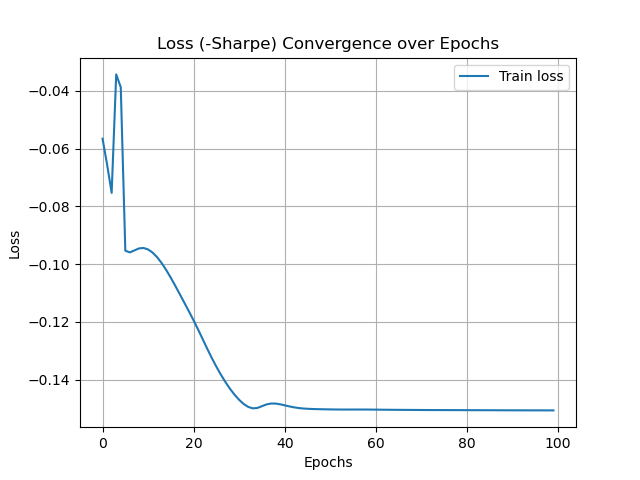
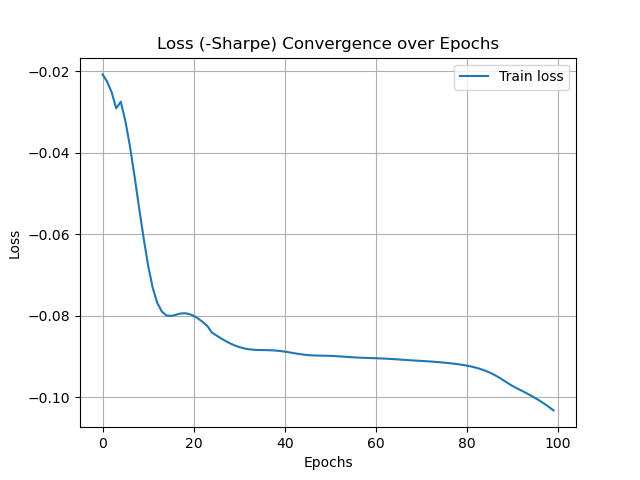
retraining scheme is working

diff --git a/NeurelNetwork_w_mvo.py b/NeurelNetwork_w_mvo.py
@@ -165,7 +165,12 @@ def backtest(tickers, startDate, epochs, window=365, retrain_every=0):
 
     model = Model()
     window = data.shape[0] - 1  # TRUE WINDOW AFTER GETTING JUST TRADING DAYS
-    weights = model.get_allocations(data.iloc[:-1], epochs=epochs)
+    go = True
+    while go:
+        model = Model()
+        weights = model.get_allocations(data.iloc[:-1], epochs=epochs)
+        if model.losses[-1] < -.07:
+            go = False
     history = model.losses
     # how long we backtest for
     full_data = get_data(startDate, datetime.datetime(2021, 1, 1), tickers)
@@ -176,10 +181,14 @@ def backtest(tickers, startDate, epochs, window=365, retrain_every=0):
         sub_data = full_data.iloc[i:i+window - 1]
         weights = None
         if retrain_every > 0 and (i + 1) % retrain_every == 0:
-            print('retrain')
-            model = Model()
-            weights = model.get_allocations(sub_data, epochs=epochs)
-            sub_data = prep_data_for_pred(sub_data)
+            go = True
+            while go:
+                print('retrain')
+                model = Model()
+                weights = model.get_allocations(sub_data, epochs=epochs)
+                if model.losses[-1] < -.07:
+                    go = False
+                    sub_data = prep_data_for_pred(sub_data)
 
         else:
             sub_data = prep_data_for_pred(sub_data)
@@ -345,10 +354,10 @@ def backtest(tickers, startDate, epochs, window=365, retrain_every=0):
 
 if __name__ == "__main__":
     tickers1 = ["VTI", "AGG", "DBC", "^VIX"]
-    set_seed(1234)
+    set_seed(12345678)  # 1234
     startDate = datetime.datetime(2010, 1, 1)
     port_returns, port_weights, _ = backtest(
-        tickers1, startDate, window=365, epochs=100, retrain_every=0)
+        tickers1, startDate, window=365, epochs=100, retrain_every=730)
 
     # sugar, corn future, soybean future, wheat
     tickers2 = ["SB=F", "KC=F", "SOYB", "WEAT"]
